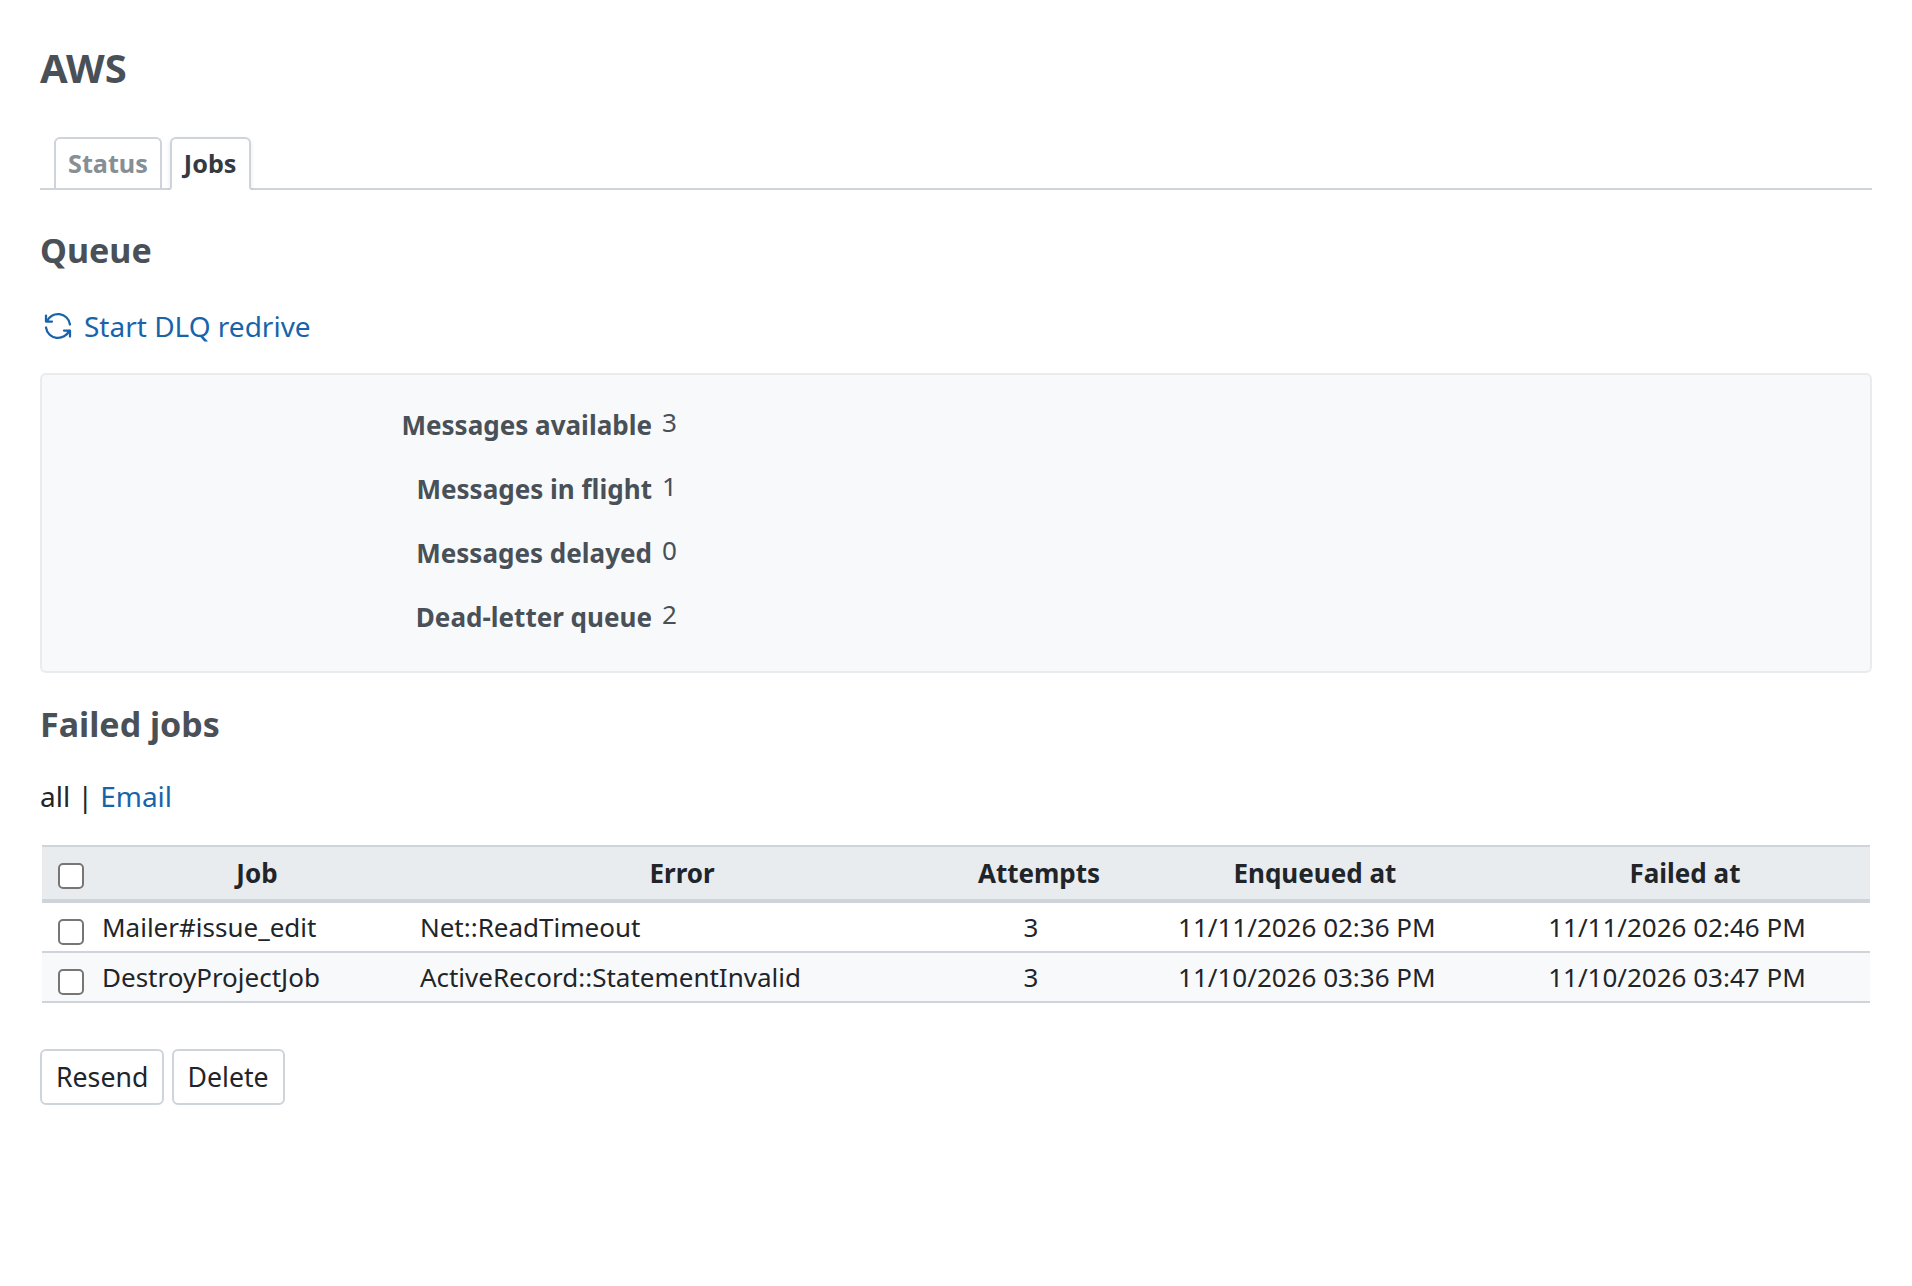
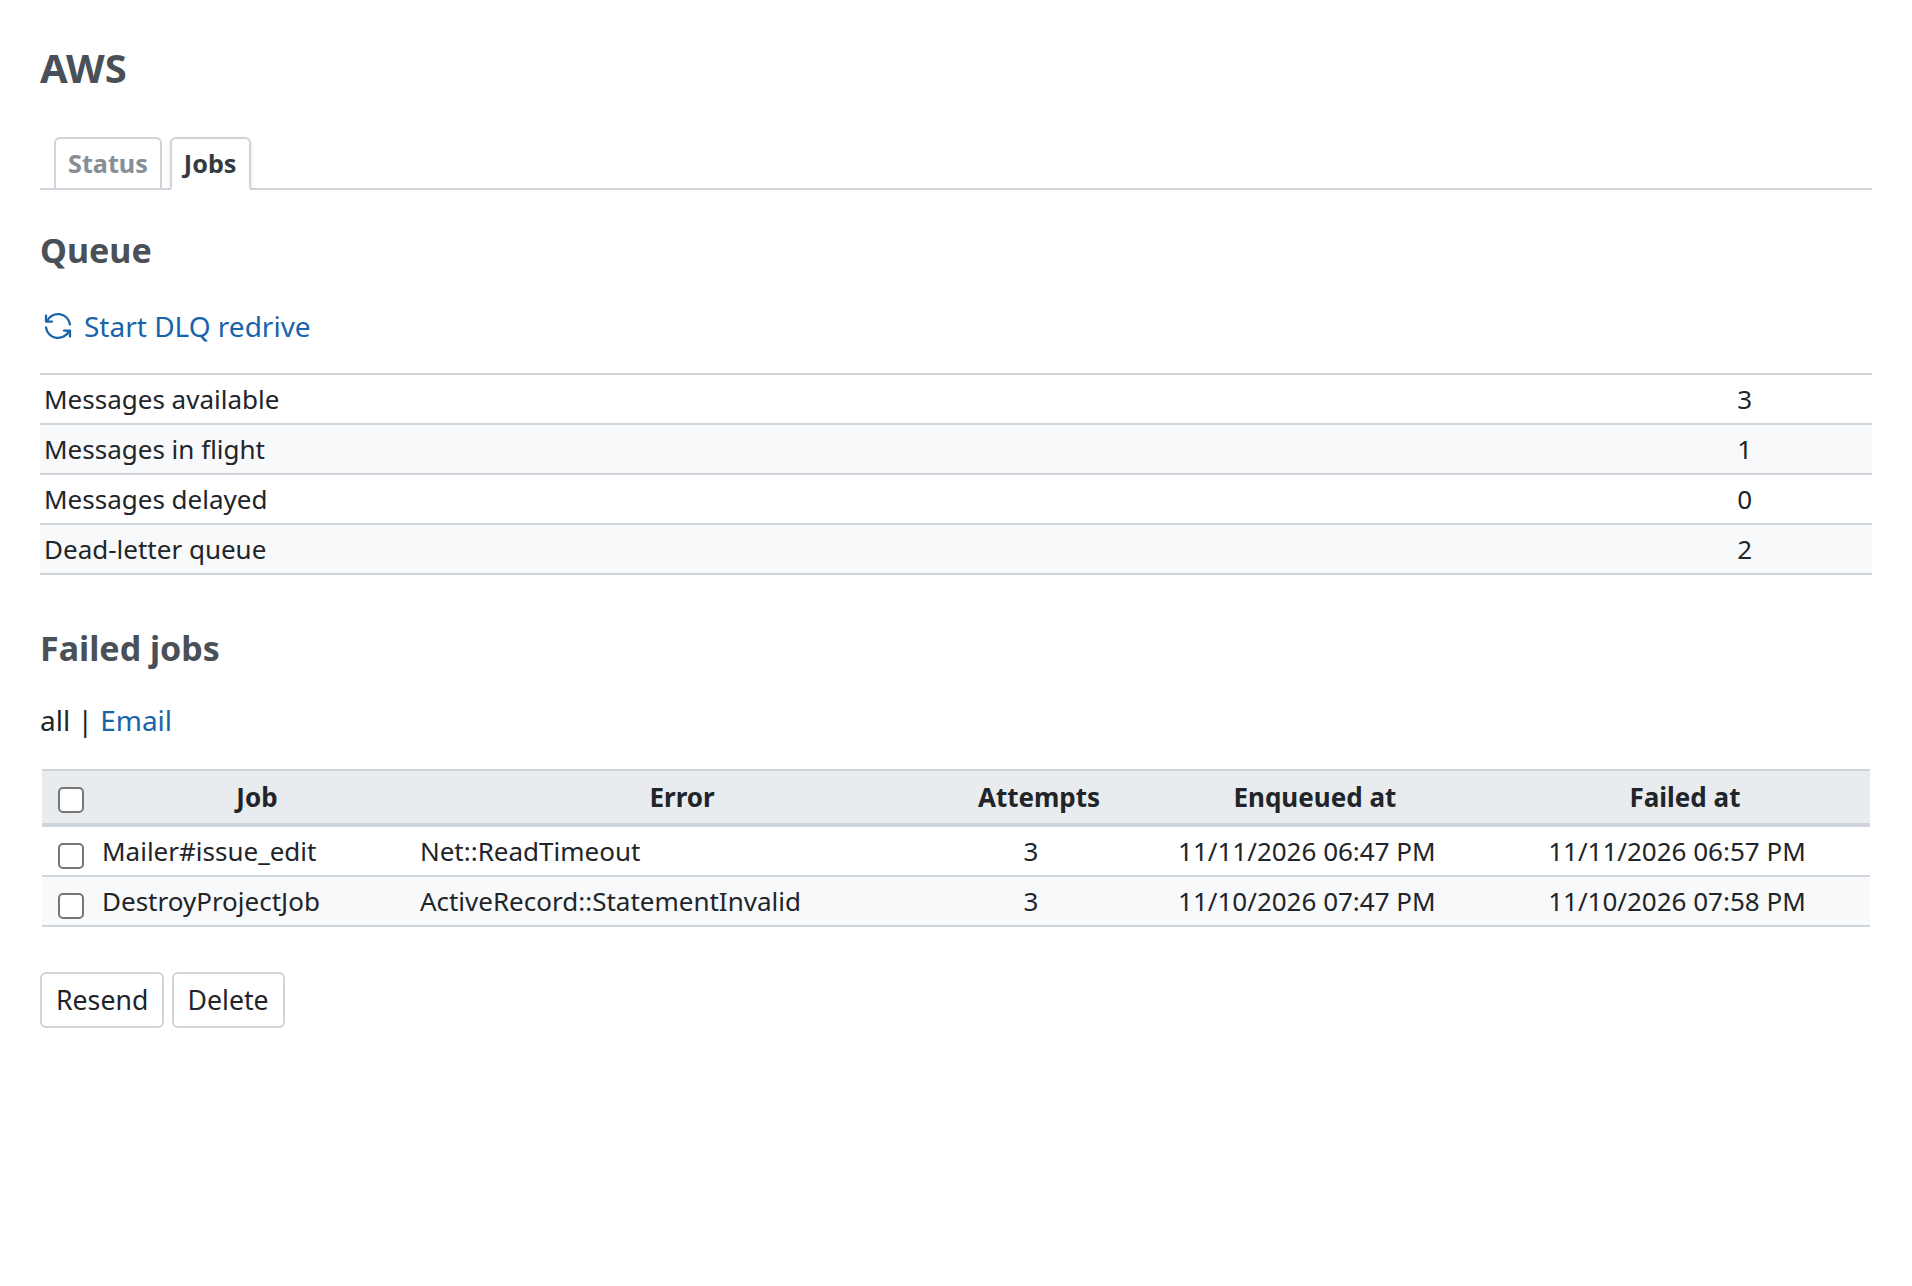
Show the queue's counts as Administration › Information does
Read-only values are shown the way Redmine's Administration › Information
shows them, with redmine_aws's shared partial aws_admin/values (a
table.list.values), instead of a settings box with labels. The rows are
built in a helper; the screenshots are taken again.

diff --git a/test/functional/aws_sqs_jobs_controller_test.rb b/test/functional/aws_sqs_jobs_controller_test.rb
@@ -32,9 +32,9 @@ module RedmineAws
         assert_select '.tabs a.selected', text: 'Jobs'
         assert_select '#admin-menu a.selected', text: /AWS/
         assert_select 'h3', text: 'Queue'
-        assert_select 'div.box.tabular p label', text: 'Messages available'
-        assert_select 'div.box.tabular p', text: /Messages available\s*3/
-        assert_select 'div.box.tabular p', text: /Dead-letter queue\s*2/
+        assert_select 'table.list.values td.name', text: 'Messages available'
+        assert_select 'table.list.values tr', text: /Messages available\s*3/
+        assert_select 'table.list.values tr', text: /Dead-letter queue\s*2/
         assert_select 'p a.icon.icon-reload[data-method=post]', text: 'Start DLQ redrive'
       end
 

diff --git a/app/helpers/aws_sqs_jobs_helper.rb b/app/helpers/aws_sqs_jobs_helper.rb
@@ -1,0 +1,12 @@
+# frozen_string_literal: true
+
+module AwsSqsJobsHelper
+  # The queue's counts as the "Jobs" tab shows them (aws_admin/values of
+  # redmine_aws, as Administration › Information shows values); "-" for the
+  # dead-letter queue when the job queue has none.
+  def aws_sqs_jobs_count_rows(counts)
+    %i[waiting running delayed dead_letter].map do |name|
+      { name: l(:"label_aws_sqs_jobs_#{name}"), value: counts[name].nil? ? '-' : number_with_delimiter(counts[name]) }
+    end
+  end
+end

diff --git a/app/controllers/aws_sqs_jobs_controller.rb b/app/controllers/aws_sqs_jobs_controller.rb
@@ -5,6 +5,8 @@
 class AwsSqsJobsController < ApplicationController
   include RedmineAws::AdminTab
 
+  helper :aws_sqs_jobs
+
   before_action :find_failures, only: %i[resend destroy]
 
   def index
